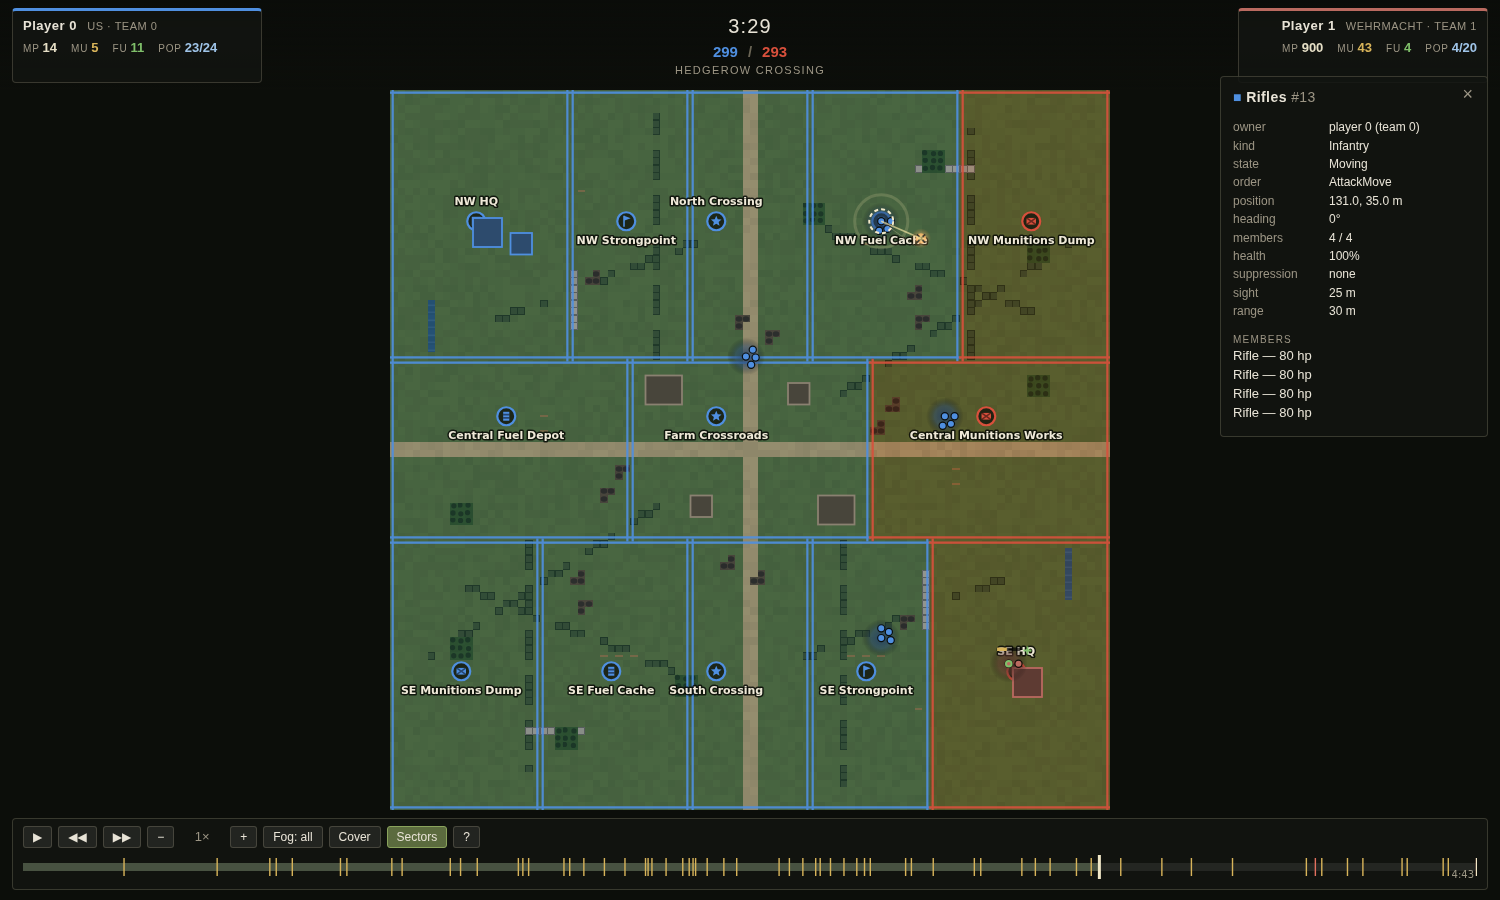
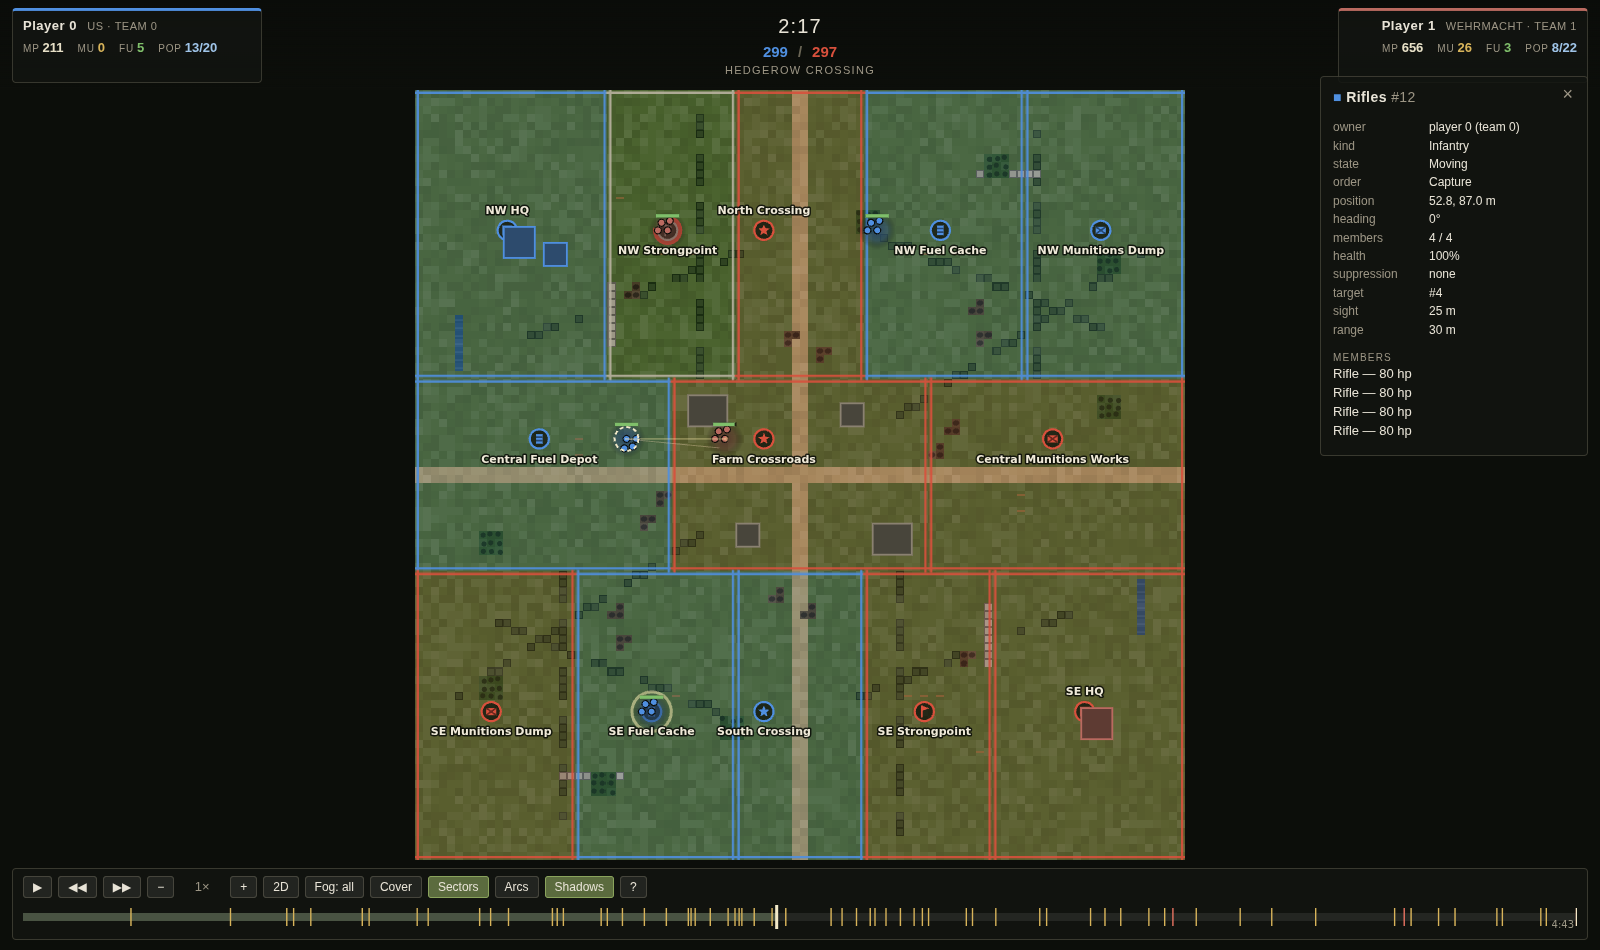
test(viewer): cover the 3D view in a real WebGL browser, and shoot the docs
`tests/viewer/test_viewer_3d.py` (13 tests) drives the battlefield in
headless Chrome against an actual WebGL2 context: it boots clean and is
the default view, the WebGL canvas is demonstrably not blank (pixels read
back out of the drawing buffer, plus draw-call/triangle/feature counts),
`V` toggles the views and the hash remembers it, stepping frames changes
the image, the camera rotates/zooms/resets with the pitch steepening as
it comes down, a click selects and opens the same inspector as 2D, a
terrain delta crushes ten fence panels and grows six crater rims,
`?quality=low` drops shadows and still renders, and a browser stubbed to
refuse WebGL falls back to the tactical map with a notice.

The fog tests are the heart of it: the rigged scenario from
`test_viewer_fog.py` is replayed here and checked against the *scene
graph* — a never-seen enemy building is not among the objects three.js
draws, a remembered one is a lone ghost, and neither is among the proxy
volumes a click is raycast against.

Getting real WebGL took some finding. Chrome's SwiftShader is a Vulkan
ICD, and ANGLE picks an X11/Vulkan display whenever DISPLAY is set, which
fails with "xcb_connect() failed" and leaves the page with no context at
all. Nine flag combinations were tried; none help while DISPLAY is set
and none are needed once it is cleared for the browser process. That, and
`--use-angle=swiftshader --enable-unsafe-swiftshader`, is now in
`conftest.py` with the reasoning written down.
[…]

diff --git a/coh/viewer/static/js/view3d/terrain.js b/coh/viewer/static/js/view3d/terrain.js
@@ -28,6 +28,7 @@ const WATER = [52, 82, 102];
 const SCORCH = [42, 36, 30];
 
 let px = 8;            // ground-texture pixels per cell
+const TINT_PX = 8;     // territory/cover overlay pixels per cell
 let canvas = null, g2 = null, tex = null;
 let ground = null, tint = null, cover = null, fogPlane = null, surround = null;
 let roadField = null;  // per-cell road coverage, smoothed
@@ -224,7 +225,7 @@ function planeFor(canvasEl, y, opts) {
 function paintTint(frame) {
   const owners = {};
   frame.points.forEach(function (p) { owners[p.id] = p.owner; });
-  const per = 4;
+  const per = TINT_PX;
   const g = tint.userData.ctx;
   const W = R.W, H = R.H;
   g.clearRect(0, 0, W * per, H * per);
@@ -284,7 +285,7 @@ function paintTint(frame) {
 }
 
 function paintCover() {
-  const per = 4;
+  const per = TINT_PX;
   const g = cover.userData.ctx;
   g.clearRect(0, 0, R.W * per, R.H * per);
   [2, 1].forEach(function (level) {
@@ -557,12 +558,12 @@ export function build(scene, mats) {
   scene.add(apron);
   surround = apron;
 
-  const tintCanvas = overlayCanvas(4);
+  const tintCanvas = overlayCanvas(TINT_PX);
   tint = planeFor(tintCanvas, 0.04, { opacity: 0.55 });
   tint.userData.ctx = tintCanvas.getContext('2d');
   scene.add(tint);
 
-  const coverCanvas = overlayCanvas(4);
+  const coverCanvas = overlayCanvas(TINT_PX);
   cover = planeFor(coverCanvas, 0.07, { opacity: 1 });
   cover.userData.ctx = coverCanvas.getContext('2d');
   cover.visible = false;

diff --git a/coh/viewer/static/js/view3d/models.js b/coh/viewer/static/js/view3d/models.js
@@ -82,7 +82,7 @@ const SLATE = '#5d5a55';
 const CHARCOAL = '#25231f';
 
 /** Faction colour, pulled well down so the field reads as WW2 rather than neon. */
-function warpaint(colour) { return mix(colour, '#50504a', 0.72); }
+function warpaint(colour) { return mix(colour, '#4c4c46', 0.78); }
 
 // ------------------------------------------------------------- buildings --
 

diff --git a/tests/viewer/shots.py b/tests/viewer/shots.py
@@ -103,11 +103,13 @@ def main(argv=None) -> int:
                 print("GL:", gl)
                 print("view:", pg.evaluate("window.__viewer.state().view"))
 
-                busiest = busiest_tick(frames)
-                pg.evaluate("window.__viewer.seekTick(%d)" % busiest)
+                tick, (bx, by), n = busiest(frames)
+                print(f"busiest tick {tick}: {n} combat events around ({bx:.0f}, {by:.0f})")
+                pg.evaluate("window.__viewer.seekTick(%d)" % tick)
 
                 # a few camera angles over the busiest moment of the match
-                for name, js in CAMERAS:
+                cams = cameras(bx, by)
+                for name, js in cams:
                     pg.evaluate(js)
                     shot(pg, out / f"{name}.png")
 
@@ -115,10 +117,8 @@ def main(argv=None) -> int:
                 print("fps:", measure_fps(pg))
 
                 if args.docs:
-                    pg.evaluate(CAMERAS[1][1])
+                    pg.evaluate(cams[1][1])
                     shot(pg, DOC_IMAGES / "viewer-3d.png", "(real match)")
-                    for _ in range(3):
-                        pg.keyboard.press("f")
 
                 # fog view
                 pg.keyboard.press("f")
@@ -128,8 +128,30 @@ def main(argv=None) -> int:
                 pg.keyboard.press("f")
                 pg.keyboard.press("f")
 
+                # the 2D tactical map, at the same moment: fitted to the whole
+                # map (which is what a tactical map is for) with the squad in
+                # the thick of it inspected
+                pg.keyboard.press("v")
+                pg.keyboard.press("Home")
+                pg.evaluate(
+                    """(() => {
+                      var f = window.__viewer.frame(), best = null, bd = 1e9;
+                      f.squads.forEach(function (s) {
+                        var d = Math.hypot(s.x - %f, s.y - %f);
+                        if (s.g === undefined && d < bd) { bd = d; best = s; }
+                      });
+                      if (best) window.__viewer.select('squad', best.id);
+                    })()""" % (bx, by)
+                )
+                shot(pg, out / "tactical.png", "(2D)")
+                if args.docs:
+                    shot(pg, DOC_IMAGES / "viewer.png", "(2D tactical map)")
+                pg.keyboard.press("v")
+                pg.evaluate(cams[2][1])
+
                 # the synthetic showcase
                 pg.evaluate(SHOWCASE_JS)
+                pg.evaluate("window.__viewer.camera3(104, 100, 74, 0.35)")
                 shot(pg, out / "showcase.png")
                 if args.docs:
                     shot(pg, DOC_IMAGES / "viewer-3d-showcase.png", "(showcase)")
@@ -144,22 +166,37 @@ def main(argv=None) -> int:
     return 0
 
 
-CAMERAS = [
-    ("overview", "window.__viewer.camera3(96, 96, 190, 0.0)"),
-    ("battle", "window.__viewer.camera3(null, null, 62, 0.5)"),
-    ("close", "window.__viewer.camera3(null, null, 30, 2.2)"),
-    ("low", "window.__viewer.camera3(null, null, 44, 3.9)"),
-]
+def cameras(x, y):
+    """Four looks at the same moment: map, operational, tactical, low angle."""
+    # Every preset states its pitch offset: it is sticky, so a shot taken
+    # after the low-angle one would otherwise inherit its tilt.
+    return [
+        ("overview", "window.__viewer.camera3(96, 96, 190, 0.0, 0)"),
+        ("battle", "window.__viewer.camera3(%f, %f, 58, 0.55, 0)" % (x, y)),
+        ("close", "window.__viewer.camera3(%f, %f, 30, 2.3, 0.05)" % (x, y)),
+        ("low", "window.__viewer.camera3(%f, %f, 40, 3.9, -0.28)" % (x, y)),
+    ]
 
 
-def busiest_tick(frames) -> int:
-    """The frame with the most shot events — where the fight actually is."""
-    best, best_n = 0, -1
+def busiest(frames):
+    """The tick with the most combat, and where on the map it is happening."""
+    best_t, best_n, best_pos = 0, -1, (96.0, 96.0)
     for f in frames["frames"]:
-        n = sum(1 for e in f["events"] if e["k"] in ("shot", "explosion"))
-        if n > best_n:
-            best, best_n = f["t"], n
-    return best
+        pts = []
+        for e in f["events"]:
+            if e["k"] not in ("shot", "explosion", "squad_destroyed"):
+                continue
+            d = e.get("d") or {}
+            p = d.get("src_pos") or d.get("pos") or d.get("dst_pos")
+            if isinstance(p, list) and len(p) == 2:
+                pts.append(p)
+        if pts and len(pts) > best_n:
+            best_t, best_n = f["t"], len(pts)
+            best_pos = (
+                sum(p[0] for p in pts) / len(pts),
+                sum(p[1] for p in pts) / len(pts),
+            )
+    return best_t, best_pos, best_n
 
 
 def measure_fps(pg) -> float:

diff --git a/tests/viewer/test_viewer_3d.py b/tests/viewer/test_viewer_3d.py
@@ -180,15 +180,29 @@ def test_the_camera_rotates_zooms_and_resets(page3d):
     page3d.evaluate("window.__viewer.seek(0.5)")
     home = page3d.evaluate("window.__viewer.state3d()")
 
-    # Q/E rotate; the loop applies held keys on the next animation frame
-    page3d.keyboard.down("q")
-    page3d.wait_for_timeout(250)
-    page3d.keyboard.up("q")
-    rotated = page3d.evaluate("window.__viewer.state3d()")
-    assert rotated["yaw"] != home["yaw"], (home, rotated)
+    # right-drag rotates, synchronously on the mousemove
+    page3d.mouse.move(490, 330)
+    page3d.mouse.down(button="right")
+    page3d.mouse.move(620, 330)
+    page3d.mouse.up(button="right")
+    dragged = page3d.evaluate("window.__viewer.state3d()")
+    assert dragged["yaw"] != home["yaw"], (home, dragged)
 
-    # the wheel zooms in, and the pitch flattens as it pulls back out
-    page3d.mouse.move(640, 430)
+    # Q/E rotate too, but the held key is applied on animation frames, so poll
+    page3d.keyboard.down("q")
+    try:
+        held = None
+        for _ in range(20):
+            held = page3d.evaluate("window.__viewer.state3d()")
+            if held["yaw"] != dragged["yaw"]:
+                break
+            page3d.wait_for_timeout(100)
+        assert held["yaw"] != dragged["yaw"], (dragged, held)
+    finally:
+        page3d.keyboard.up("q")
+
+    # the wheel zooms in, and the pitch steepens as it comes down
+    page3d.mouse.move(490, 330)
     page3d.mouse.wheel(0, -600)
     zoomed = page3d.evaluate("window.__viewer.state3d()")
     assert zoomed["dist"] < home["dist"]

diff --git a/README.md b/README.md
@@ -59,40 +59,100 @@ frames are rebuilt exactly, not stored.
 uv run python scripts/play_match.py --map hedgerow_crossing \
     --p0 t1 --p1 t1 --seed 0 --data-dir tests/data/fixtures --out match.replay.json
 uv run python -m coh.viewer match.replay.json --data-dir tests/data/fixtures
-# open http://127.0.0.1:8000/   (add #paused to open on the first frame)
+# open http://127.0.0.1:8000/
 ```
 
-![The viewer mid-match](docs/img/viewer.png)
+![The 3D battlefield mid-match](docs/img/viewer-3d.png)
 
-Territory is tinted and outlined by the owning team, squads are drawn as one
-dot per living model in the sim's own formation, vehicles get a rotated hull
-and a turret line, team weapons show their set-up arc, and shots, explosions,
-captures and deaths animate from the sim's event log. The HUD tracks manpower,
-munitions, fuel, population and victory tickets; click any squad or building to
-inspect its frame fields, and the winner is announced on the last frame.
+The default view is a 3D battlefield: a pitched, rotatable camera over ground
+textured from a procedurally painted canvas, with bocage banks and tree
+clusters that really do occlude, low-poly infantry standing at the sim's own
+formation offsets, boxy but recognisable tanks whose turrets track
+`turret_heading`, farmhouses with pitched roofs and lit windows when
+garrisoned, flagpoles whose flags rise with capture progress, and tracers,
+fireballs, dirt and scorch marks driven by the sim's event log. A warm sun
+with soft shadows, hemisphere fill, horizon haze and ACES tone mapping keep it
+muted rather than neon.
 
-Every unit presentation and event effect in one frame — set-up and
-setting-up team weapons, an abandoned gun, a tank and its turret, retreating,
-pinned and reinforcing infantry, a garrison badge, a half-built structure with
-its production queue, and blast / wreck / ejection effects:
+The simulation is unchanged and still planar — CoH1's gameplay is — so this is
+purely a renderer. `V` switches to the **2D tactical map**, the original canvas
+view, which CoH has too; the choice is remembered in the URL hash
+(`#paused&view=2d` is a deep link into a moment *and* a way of looking at it).
 
-![Every unit presentation and effect](docs/img/viewer-units.png)
+![The 2D tactical map at the same moment](docs/img/viewer.png)
+
+The tactical map is unchanged: territory tinted and outlined by the owning
+team, one dot per living model on the sim's own formation offsets, rotated
+vehicle hulls with a turret line, set-up arcs, and the same tracers,
+explosions, captures and deaths. Its own unit/effect showcase is
+[`docs/img/viewer-units.png`](docs/img/viewer-units.png), regenerated by
+`tests/viewer/test_viewer_browser.py`. The HUD tracks manpower, munitions,
+fuel, population and victory tickets in both views; click any squad or building
+to inspect its frame fields, and the winner is announced on the last frame.
+
+Everything the scripted fixture agents never produce, in one synthetic frame —
+tanks mid-duel, an HMG dug in behind bocage covering a road, mortar shells
+landing, a garrisoned farmhouse taking fire, a barracks under construction, a
+cottage collapsing, an abandoned AT gun, a wreck and a full production queue:
+
+![Every unit presentation and effect](docs/img/viewer-3d-showcase.png)
 
 Press `F` to cycle the fog of war between omniscient, team 0's view and team
-1's view. The frames are omniscient; the filtering is the client's job, and it
-is thorough — in a team view, unseen ground is dimmed, enemy squads outside
-that team's vision are hidden (and unclickable), enemy buildings it has seen
-before become greyed "last known" outlines whose inspector reports only when
-they were last seen, enemy buildings it has never seen are not drawn at all,
-and effects it could not have witnessed are dropped. Sector ownership, capture
-progress and the timeline event marks stay omniscient.
+1's view. The frames are omniscient; the filtering is the client's job, it is
+done once in `coh/viewer/static/js/data.js`, and **both views consume that same
+answer** — so the rules cannot drift apart. In a team view unseen ground is
+washed out, enemy squads outside that team's vision are absent from the scene
+and unclickable, enemy buildings it has seen before become translucent grey
+"last known" volumes whose inspector reports only when they were last seen,
+enemy buildings it has never seen are not drawn at all, effects it could not
+have witnessed are dropped, and even the persistent scorch marks and wrecks are
+only laid down for blasts it could have seen happen. Sector ownership, capture
+progress and the timeline event marks stay omniscient, as they do in CoH.
 
-![The same moment through team 0's fog of war](docs/img/viewer-fog.png)
+![The same moment through team 0's fog of war](docs/img/viewer-3d-fog.png)
 
-Controls: space play/pause, `←`/`→` step a frame, `+`/`−` speed (0.5×–16×),
-scrub the timeline (capture and kill ticks are marked), wheel to zoom, drag to
-pan, `C` cover overlay, `G` sector borders and names, `Home` to reset the
-camera, `?` for the full legend.
+Controls: `V` switch views, space play/pause, `←`/`→` step a frame, `+`/`−`
+speed (0.5x-16x), scrub the timeline (capture and kill ticks are marked), drag
+to pan, right-drag or `Q`/`E` to rotate, `W A S D` to pan, wheel to zoom toward
+the cursor, click to inspect, double-click to follow a unit, `C` cover overlay,
+`G` territory and sector borders, `Z` weapon arcs, `H` shadows, `Home` to reset
+the camera, `?` for the full legend.
+
+Add `?quality=low` for a lighter 3D view (no shadows, smaller textures). If the
+browser cannot give the page a WebGL context at all, the 3D module is never
+even downloaded and it falls back to the tactical map with a notice.
+
+### three.js, vendored
+
+The 3D view uses [three.js](https://threejs.org) r169 (MIT), vendored as a
+single pinned `build/three.module.min.js` under
+`coh/viewer/static/vendor/three/` and imported through an import map in
+`index.html`. There is no build step and no CDN: the viewer works with no
+network access at all. See that directory's `README.md` for how to refresh it.
+
+### Alternative looks
+
+Every model is procedural, and every one of them goes through a registry, so a
+different look can be dropped in without touching the renderer:
+
+```js
+import * as models from './js/view3d/models.js';
+import { Parts } from './js/view3d/geom.js';
+
+// 'building' | 'vehicle' | 'weapon' | 'soldier' | 'point'
+// the pattern is an exact def id, a RegExp over it, or a predicate on the
+// context; the last matching registration wins, so a pack loaded later wins
+models.register('vehicle', /sherman|panzer/, function (ctx) {
+  const hull = new Parts(), turret = new Parts();
+  hull.box(5.4, 1.0, 2.7, ctx.colour, { y: 1.05 });
+  turret.cyl(1.2, 1.4, 0.9, ctx.colour, { y: 0.45 });
+  return { hull: hull, turret: turret, turretY: 2.0 };
+});
+```
+
+A factory returns a part list, which is baked into one vertex-coloured mesh —
+one draw call per object. Only the procedural default skin ships here; no
+third-party or Company of Heroes art is included or downloaded.
 
 Options: `--port`, `--data-dir` (defaults to the replay's own hint), `--every N`
 to change the snapshot rate, and `--no-serve --out frames.json.gz` to write the
